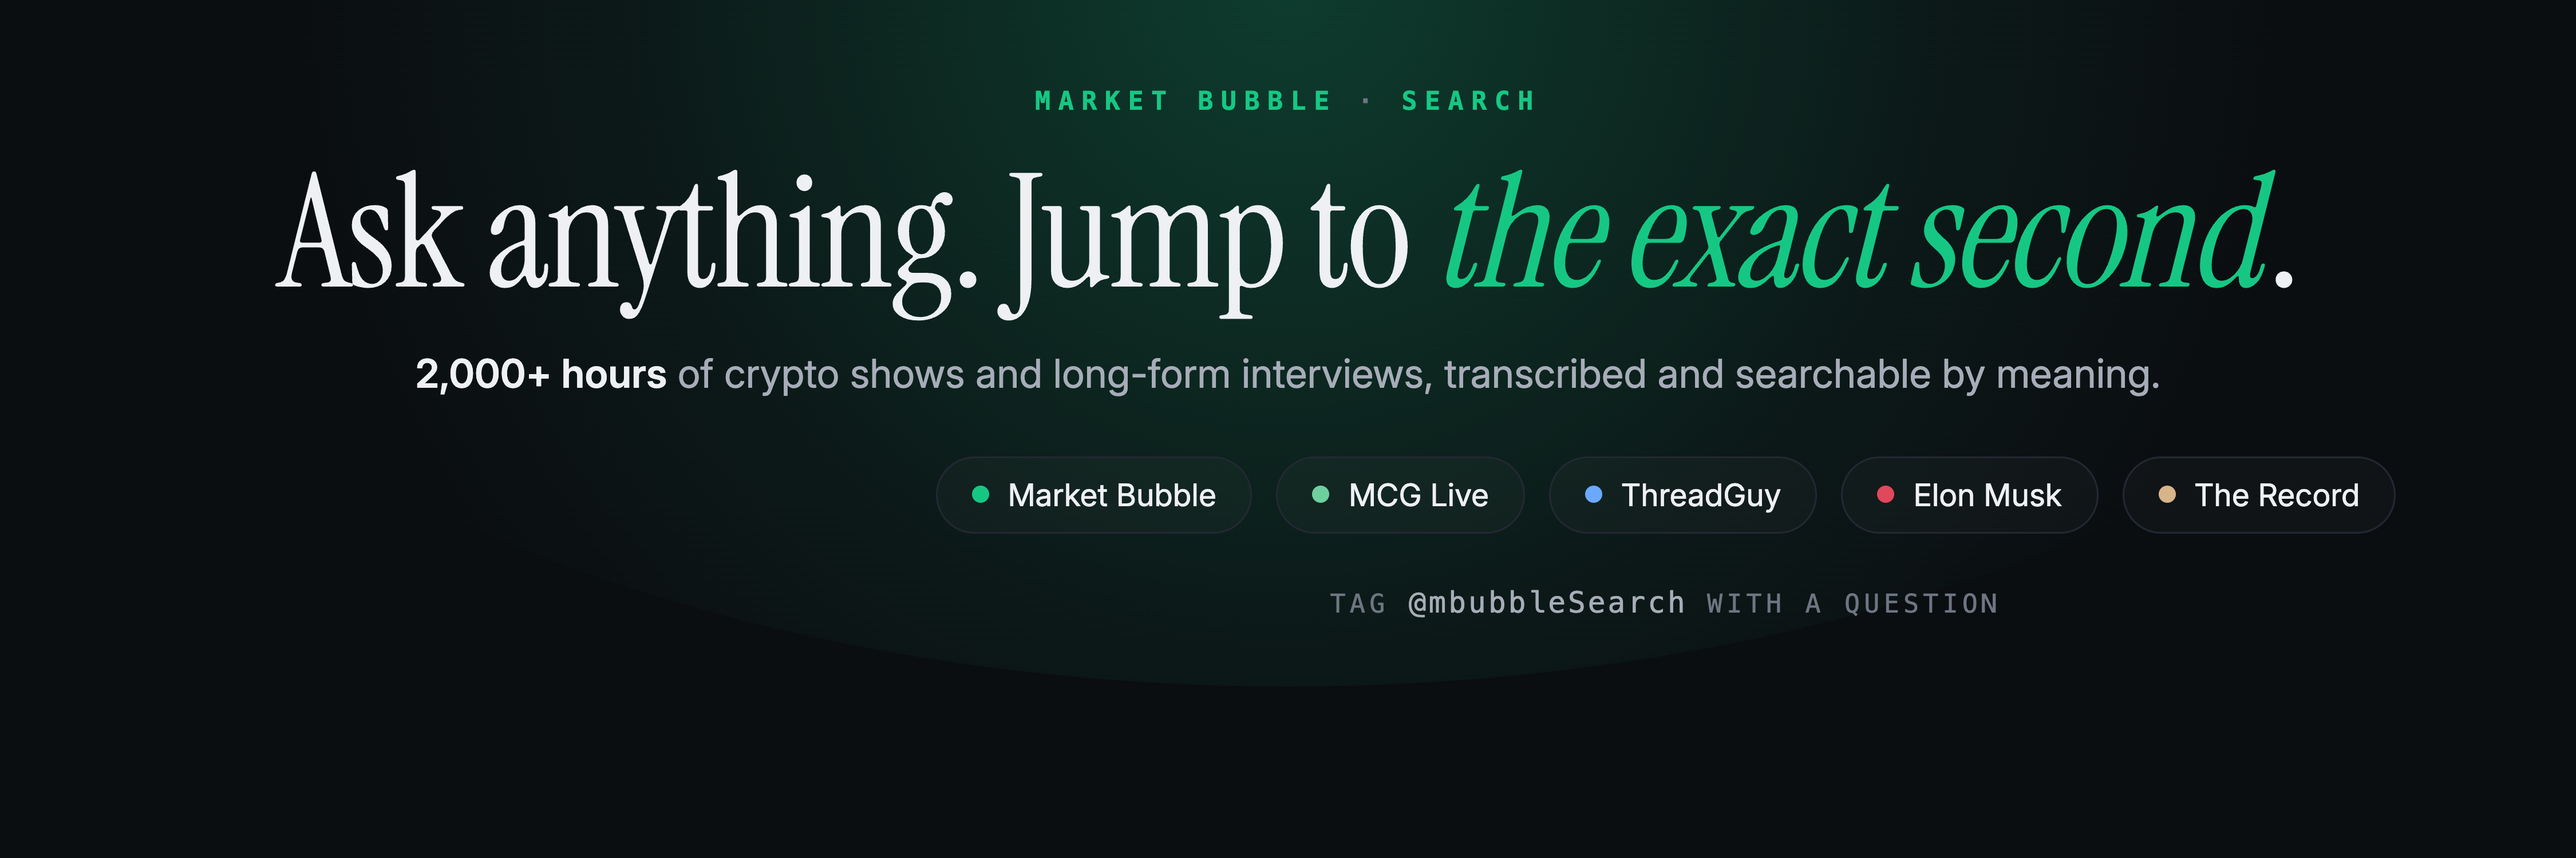
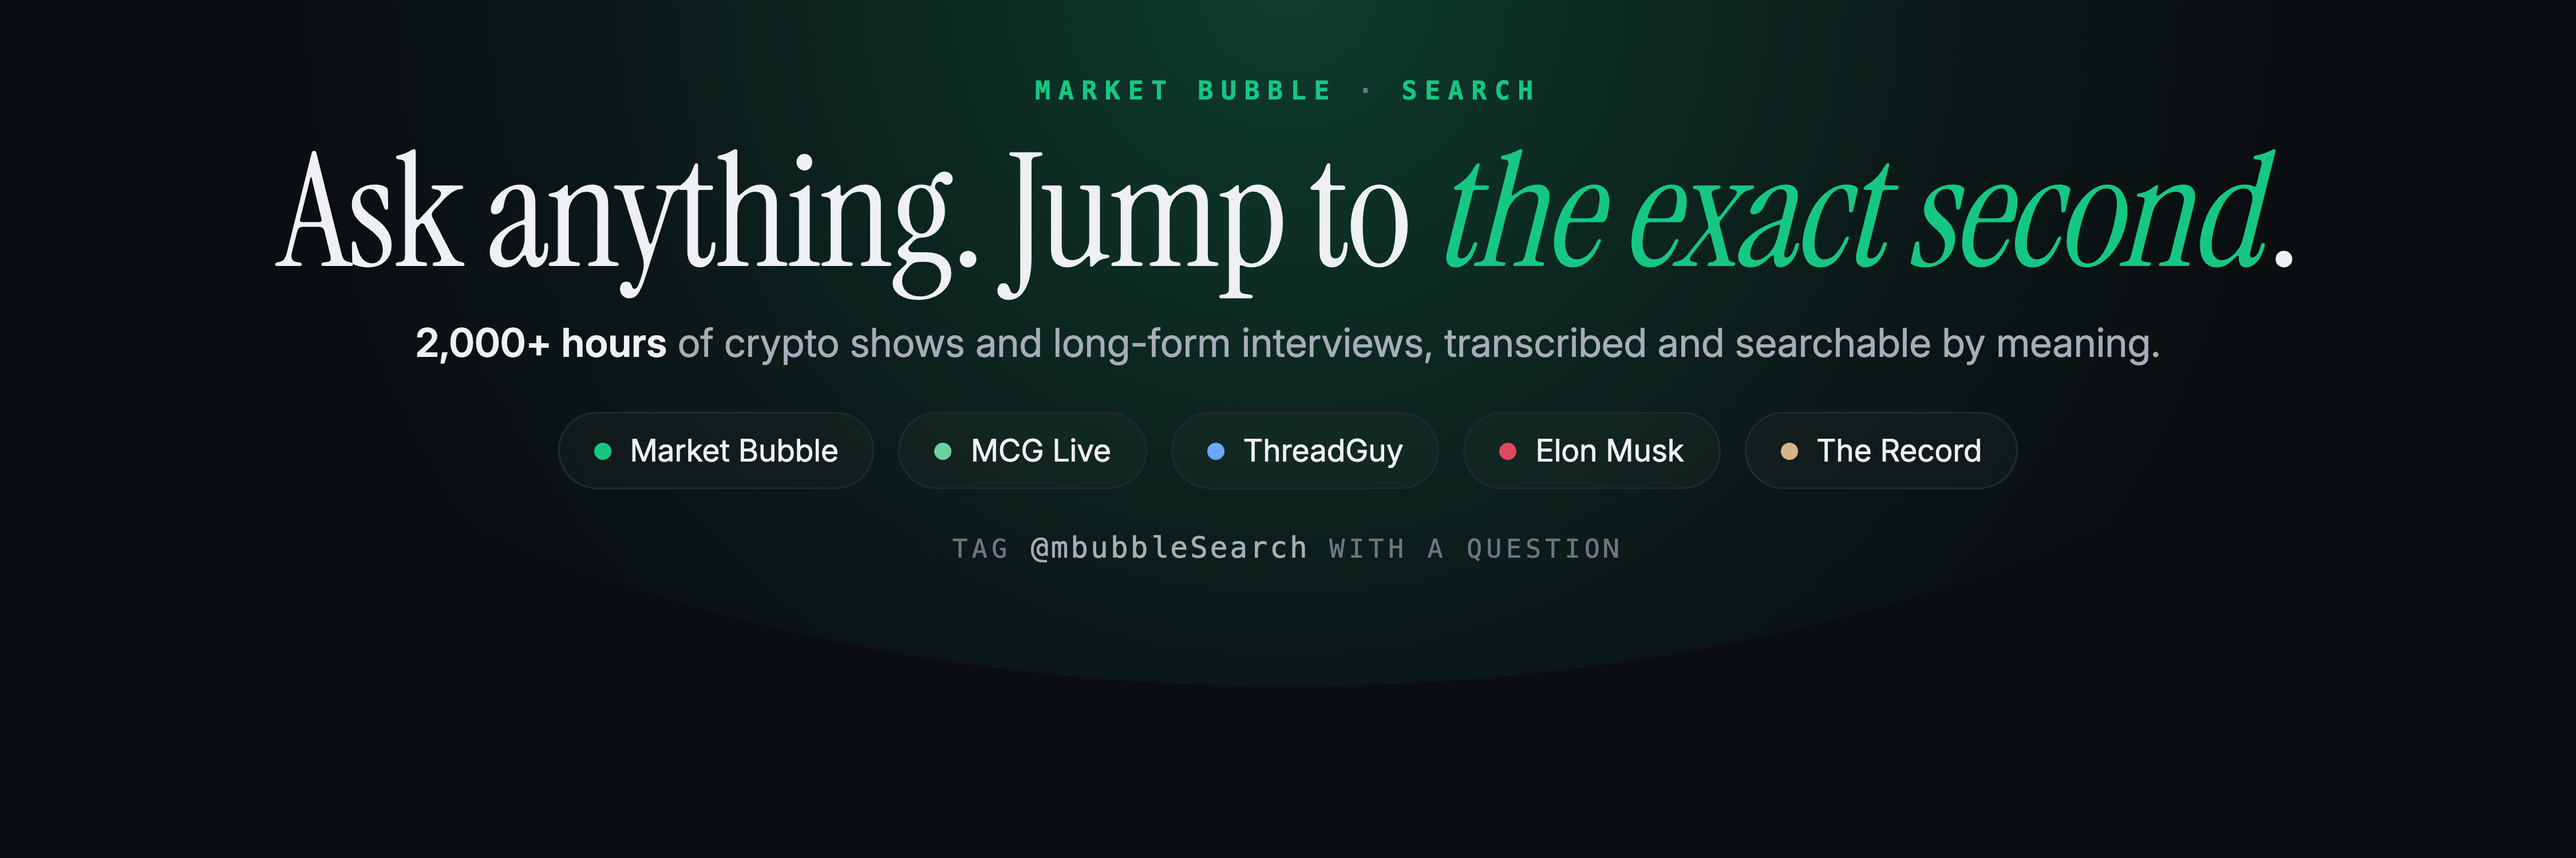
Keep the X header's archive pills centred and lift the block instead
Lex wanted the pills where they were. The avatar covers x 44 to 395
from y 317 down, so the whole block now rides higher and the pill row
ends at y 285; the tag line under it starts at x 555, clear of the
avatar. The test reads the rendered image: that corner has to be as
dark as the background.

diff --git a/demo/x-banner.html b/demo/x-banner.html
@@ -9,10 +9,11 @@
 
      The bottom-left corner is left empty: on a profile the avatar sits over
      it. Measured off the live profile on 16 Oct 2026, it covers x 44 to 395
-     from y 317 down, which put it over the first archive pill, so the
-     lower rows are centred in the space to its right. And X crops the
-     banner shorter on narrow screens, off the top and bottom, so the block
-     is centred with the bottom 90px left empty. -->
+     from y 317 down, and it hid the first archive pill. The pills stay
+     centred, so the whole block rides higher instead and the pill row ends
+     above y 317; the tag line under it is narrow enough to clear the
+     avatar to its left. tests/test_banners.py reads the rendered image to
+     hold that. -->
 <html><head><meta charset="utf-8"><style>
   @font-face { font-family: "Instrument Serif";
     src: url("fonts/InstrumentSerif-Regular.ttf") format("truetype"); }
@@ -23,29 +24,26 @@
         --green:#16c784}
   body{width:1500px;height:500px;background:var(--bg);color:var(--ink);overflow:hidden;
     font-family:"InterV",-apple-system,BlinkMacSystemFont,sans-serif;position:relative;
-    display:flex;flex-direction:column;align-items:center;justify-content:center;
-    padding-bottom:90px}
+    display:flex;flex-direction:column;align-items:center;justify-content:flex-start;
+    padding-top:44px}
   .glow{position:absolute;left:50%;top:-420px;transform:translateX(-50%);
     width:1500px;height:820px;border-radius:50%;
     background:radial-gradient(circle,rgba(22,199,132,.25),rgba(22,199,132,.06) 45%,transparent 68%)}
-  /* Right of the avatar: x 440 to 1500, so centred on 970. */
-  .lower{position:relative;width:100%;padding-left:440px;display:flex;flex-direction:column;
-    align-items:center}
   .mono{font-family:ui-monospace,SFMono-Regular,Menlo,monospace}
   .eyebrow{position:relative;font-size:15px;letter-spacing:.3em;text-transform:uppercase;
     color:var(--green);font-weight:600}
   .eyebrow span{color:var(--ink3);margin:0 12px}
-  h1{position:relative;margin-top:22px;font-family:"Instrument Serif",Georgia,serif;
+  h1{position:relative;margin-top:16px;font-family:"Instrument Serif",Georgia,serif;
     font-weight:400;font-size:92px;line-height:1;letter-spacing:-1.6px;text-align:center}
   h1 em{font-style:italic;color:var(--green);padding-right:.06em}
-  .sub{position:relative;margin-top:22px;font-size:23px;color:var(--ink2)}
+  .sub{position:relative;margin-top:16px;font-size:23px;color:var(--ink2)}
   .sub b{color:var(--ink);font-weight:600}
-  .rooms{position:relative;display:flex;gap:14px;margin-top:34px}
+  .rooms{position:relative;display:flex;gap:14px;margin-top:26px}
   .rooms span{display:flex;align-items:center;gap:11px;padding:11px 20px;
     border:1.5px solid var(--edge);border-radius:99px;background:rgba(255,255,255,.025);
     font-size:18px;color:var(--ink)}
   .rooms i{width:10px;height:10px;border-radius:50%;background:var(--c)}
-  .ask{position:relative;margin-top:30px;font-size:15px;letter-spacing:.16em;
+  .ask{position:relative;margin-top:24px;font-size:15px;letter-spacing:.16em;
     text-transform:uppercase;color:var(--ink3)}
   .ask b{color:var(--ink2);font-weight:500;letter-spacing:.08em;text-transform:none;font-size:17px}
 </style></head><body>
@@ -53,7 +51,6 @@
   <div class="eyebrow mono">Market Bubble<span>&middot;</span>Search</div>
   <h1>Ask anything. Jump to <em>the exact second</em>.</h1>
   <div class="sub"><b>2,000+ hours</b> of crypto shows and long-form interviews, transcribed and searchable by meaning.</div>
-  <div class="lower">
   <div class="rooms">
     <span style="--c:#16c784"><i></i>Market Bubble</span>
     <span style="--c:#6ecf9e"><i></i>MCG Live</span>
@@ -62,5 +59,4 @@
     <span style="--c:#d8b48a"><i></i>The Record</span>
   </div>
   <div class="ask mono">tag <b>@mbubbleSearch</b> with a question</div>
-  </div>
 </body></html>

diff --git a/tests/test_banners.py b/tests/test_banners.py
@@ -29,11 +29,14 @@ def test_the_one_figure_is_a_floor_and_the_copy_has_no_dashes(name):
 
 def test_nothing_on_the_x_banner_sits_under_the_avatar():
     """On the live profile the avatar covers x 44 to 395 from y 317 down,
-    and it hid the first archive pill. The lower rows start right of it."""
-    html = (DEMO / "x-banner.html").read_text()
-    lower = re.search(r"\.lower\{[^}]*padding-left:(\d+)px", html)
-    assert lower and int(lower.group(1)) > 395
-    assert html.index('<div class="lower">') < html.index('<div class="rooms">')
+    and it hid the first archive pill. Read off the rendered image, with a
+    margin: nothing in that corner may be brighter than the background
+    (text and pill outlines are 150 and up; the background is under 20)."""
+    image = Image.open(DEMO / "x-banner.png").convert("L")
+    corner = image.crop((44 * 3, 300 * 3, 410 * 3, 500 * 3))
+    assert corner.getextrema()[1] < 60
+    # And the pills are still centred, where they always were.
+    assert '<div class="lower">' not in (DEMO / "x-banner.html").read_text()
 
 
 def test_the_dexscreener_banner_is_the_x_header_centred():
